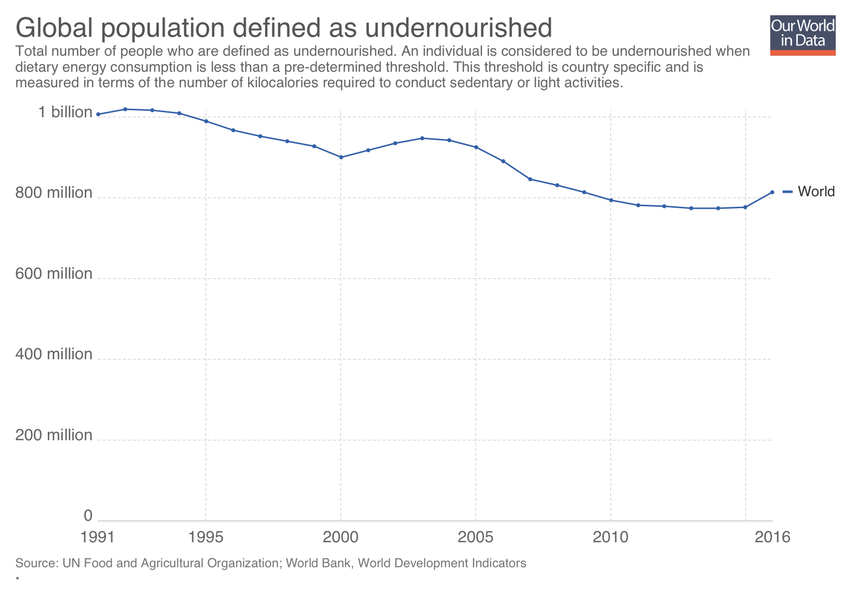
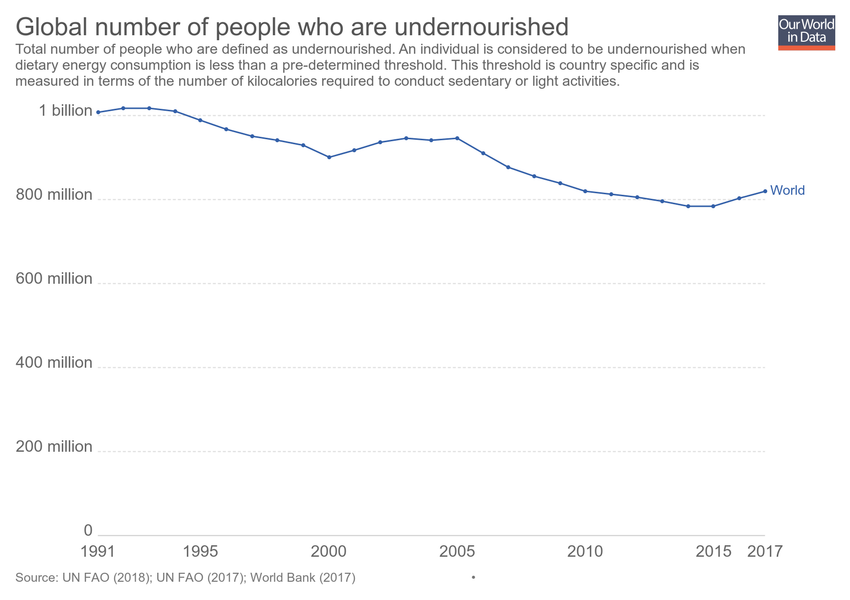
Updating chart global-population-defined-as-undernourished

diff --git a/grapher/global-population-defined-as-undernourished.html b/grapher/global-population-defined-as-undernourished.html
@@ -1,4 +1,4 @@
-<!doctype html><html><head><meta name="viewport" content="width=device-width, initial-scale=1" /><title>Global population defined as undernourished - Our World in Data</title><meta name="description" content="Total number of people who are defined as undernourished. An individual is considered to be undernourished when dietary energy consumption is less than a pre-determined threshold. This threshold is country specific and is measured in terms of the number of kilocalories required to conduct sedentary or light activities." /><link rel="canonical" href="https://ourworldindata.org/grapher/global-population-defined-as-undernourished" /><meta property="fb:app_id" content="1149943818390250" /><meta property="og:url" content="https://ourworldindata.org/grapher/global-population-defined-as-undernourished" /><meta property="og:title" content="Global population defined as undernourished" /><meta property="og:description" content="Total number of people who are defined as undernourished. An individual is considered to be undernourished when dietary energy consumption is less than a pre-determined threshold. This threshold is country specific and is measured in terms of the number of kilocalories required to conduct sedentary or light activities." /><meta property="og:image" content="https://ourworldindata.org/grapher/exports/global-population-defined-as-undernourished.png?v=1" /><meta property="og:image:width" content="850" /><meta property="og:image:height" content="600" /><meta property="og:site_name" content="Our World in Data" /><meta name="twitter:card" content="summary_large_image" /><meta name="twitter:site" content="@OurWorldInData" /><meta name="twitter:creator" content="@OurWorldInData" /><meta name="twitter:title" content="Global population defined as undernourished" /><meta name="twitter:description" content="Total number of people who are defined as undernourished. An individual is considered to be undernourished when dietary energy consumption is less than a pre-determined threshold. This threshold is country specific and is measured in terms of the number of kilocalories required to conduct sedentary or light activities." /><meta name="twitter:image" content="https://ourworldindata.org/grapher/exports/global-population-defined-as-undernourished.png?v=1" /><style>
+<!doctype html><html><head><meta name="viewport" content="width=device-width, initial-scale=1" /><title>Global number of people who are undernourished - Our World in Data</title><meta name="description" content="Total number of people who are defined as undernourished. An individual is considered to be undernourished when dietary energy consumption is less than a pre-determined threshold. This threshold is country specific and is measured in terms of the number of kilocalories required to conduct sedentary or light activities." /><link rel="canonical" href="https://ourworldindata.org/grapher/global-population-defined-as-undernourished" /><meta property="fb:app_id" content="1149943818390250" /><meta property="og:url" content="https://ourworldindata.org/grapher/global-population-defined-as-undernourished" /><meta property="og:title" content="Global number of people who are undernourished" /><meta property="og:description" content="Total number of people who are defined as undernourished. An individual is considered to be undernourished when dietary energy consumption is less than a pre-determined threshold. This threshold is country specific and is measured in terms of the number of kilocalories required to conduct sedentary or light activities." /><meta property="og:image" content="https://ourworldindata.org/grapher/exports/global-population-defined-as-undernourished.png?v=2" /><meta property="og:image:width" content="850" /><meta property="og:image:height" content="600" /><meta property="og:site_name" content="Our World in Data" /><meta name="twitter:card" content="summary_large_image" /><meta name="twitter:site" content="@OurWorldInData" /><meta name="twitter:creator" content="@OurWorldInData" /><meta name="twitter:title" content="Global number of people who are undernourished" /><meta name="twitter:description" content="Total number of people who are defined as undernourished. An individual is considered to be undernourished when dietary energy consumption is less than a pre-determined threshold. This threshold is country specific and is measured in terms of the number of kilocalories required to conduct sedentary or light activities." /><meta name="twitter:image" content="https://ourworldindata.org/grapher/exports/global-population-defined-as-undernourished.png?v=2" /><style>
         html, body {
             height: 100%;
             margin: 0;
@@ -20,8 +20,8 @@
         }
     </style><noscript><style>
                     figure { display: none !important; }
-                </style></noscript><link rel="stylesheet" href="https://ourworldindata.org/grapher/assets/commons.bundle.397229a8467cf53bfc99.css" /><link rel="preload" href="/grapher/data/variables/42480.json?v=1" as="fetch" crossorigin /></head><body class="singleChart"><figure data-grapher-src="/grapher/global-population-defined-as-undernourished"></figure><noscript id="fallback"><img src="/grapher/exports/global-population-defined-as-undernourished.svg" /><p>Interactive visualization requires JavaScript</p></noscript><script src="https://cdn.polyfill.io/v2/polyfill.min.js?features=es6,fetch"></script><script src="https://ourworldindata.org/grapher/assets/commons.bundle.397229a8467cf53bfc99.js"></script><script src="https://ourworldindata.org/grapher/assets/charts.bundle.397229a8467cf53bfc99.js"></script><script>
-        var jsonConfig = {"id":1200,"map":{"projection":"World","legendStepSize":20,"colorSchemeLabels":[],"colorSchemeValues":[],"defaultProjection":"World","customNumericColors":[],"customCategoryColors":{},"customCategoryLabels":{},"customHiddenCategories":{}},"tab":"chart","slug":"global-population-defined-as-undernourished","type":"LineChart","title":"Global population defined as undernourished","xAxis":{"scaleType":"linear"},"yAxis":{"min":0,"scaleType":"linear"},"version":1,"subtitle":"Total number of people who are defined as undernourished. An individual is considered to be undernourished when dietary energy consumption is less than a pre-determined threshold. This threshold is country specific and is measured in terms of the number of kilocalories required to conduct sedentary or light activities.","hasMapTab":false,"originUrl":"https://ourworldindata.org/hunger-and-undernourishment/","stackMode":"absolute","dimensions":[{"id":7029,"order":0,"chartId":1200,"display":{},"property":"y","targetYear":null,"variableId":42480}],"isAutoSlug":true,"sourceDesc":"UN Food and Agricultural Organization; World Bank, World Development Indicators","hasChartTab":true,"isPublished":true,"selectedData":[{"index":0,"entityId":355}],"internalNotes":"","addCountryMode":"add-country","hideTitleAnnotation":true};
+                </style></noscript><link rel="stylesheet" href="https://ourworldindata.org/grapher/assets/commons.bundle.397229a8467cf53bfc99.css" /><link rel="preload" href="/grapher/data/variables/98010.json?v=2" as="fetch" crossorigin /></head><body class="singleChart"><figure data-grapher-src="/grapher/global-population-defined-as-undernourished"></figure><noscript id="fallback"><img src="/grapher/exports/global-population-defined-as-undernourished.svg" /><p>Interactive visualization requires JavaScript</p></noscript><script src="https://cdn.polyfill.io/v2/polyfill.min.js?features=es6,fetch"></script><script src="https://ourworldindata.org/grapher/assets/commons.bundle.397229a8467cf53bfc99.js"></script><script src="https://ourworldindata.org/grapher/assets/charts.bundle.397229a8467cf53bfc99.js"></script><script>
+        var jsonConfig = {"id":1200,"map":{"projection":"World","colorSchemeLabels":[],"colorSchemeValues":[],"customNumericColors":[],"customCategoryColors":{},"customCategoryLabels":{},"customHiddenCategories":{}},"tab":"chart","slug":"global-population-defined-as-undernourished","type":"LineChart","title":"Global number of people who are undernourished","xAxis":{"scaleType":"linear"},"yAxis":{"min":0,"scaleType":"linear"},"version":2,"subtitle":"Total number of people who are defined as undernourished. An individual is considered to be undernourished when dietary energy consumption is less than a pre-determined threshold. This threshold is country specific and is measured in terms of the number of kilocalories required to conduct sedentary or light activities.","hasMapTab":false,"originUrl":"https://ourworldindata.org/hunger-and-undernourishment/","stackMode":"absolute","dimensions":[{"display":{},"property":"y","variableId":98010}],"sourceDesc":"UN FAO (2018); UN FAO (2017); World Bank (2017)","hasChartTab":true,"isPublished":true,"selectedData":[{"index":0,"entityId":355}],"internalNotes":"","addCountryMode":"add-country","hideTitleAnnotation":true};
         var figure = document.getElementsByTagName("figure")[0];
         try {
             window.App = {};
